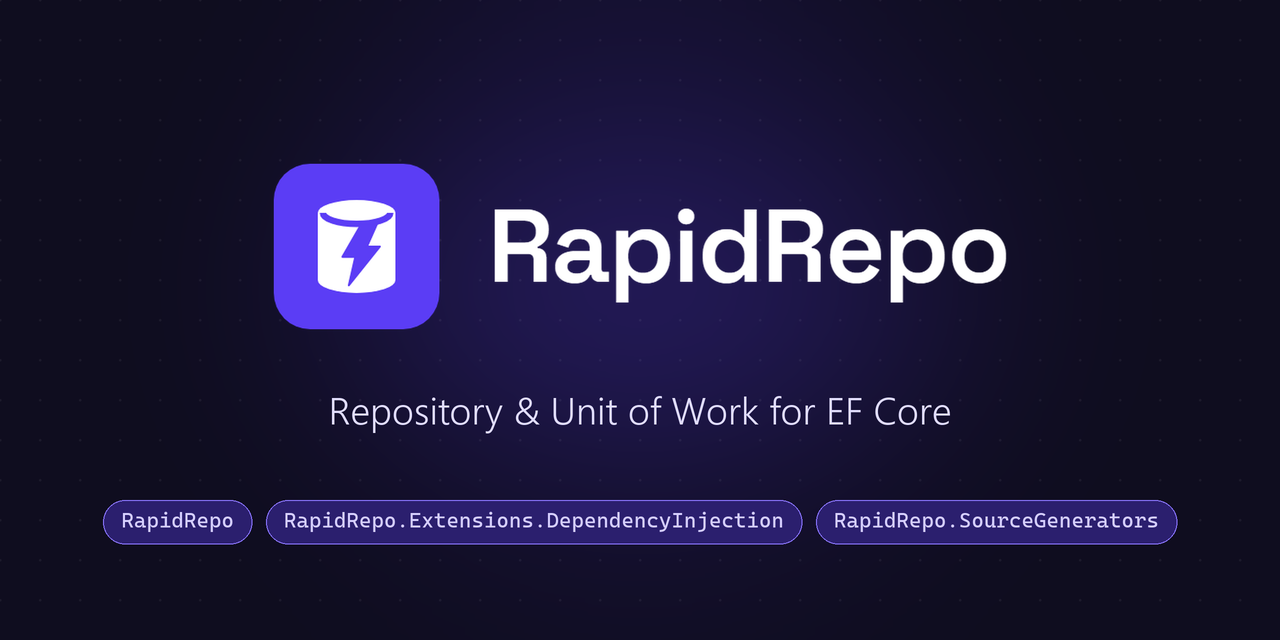
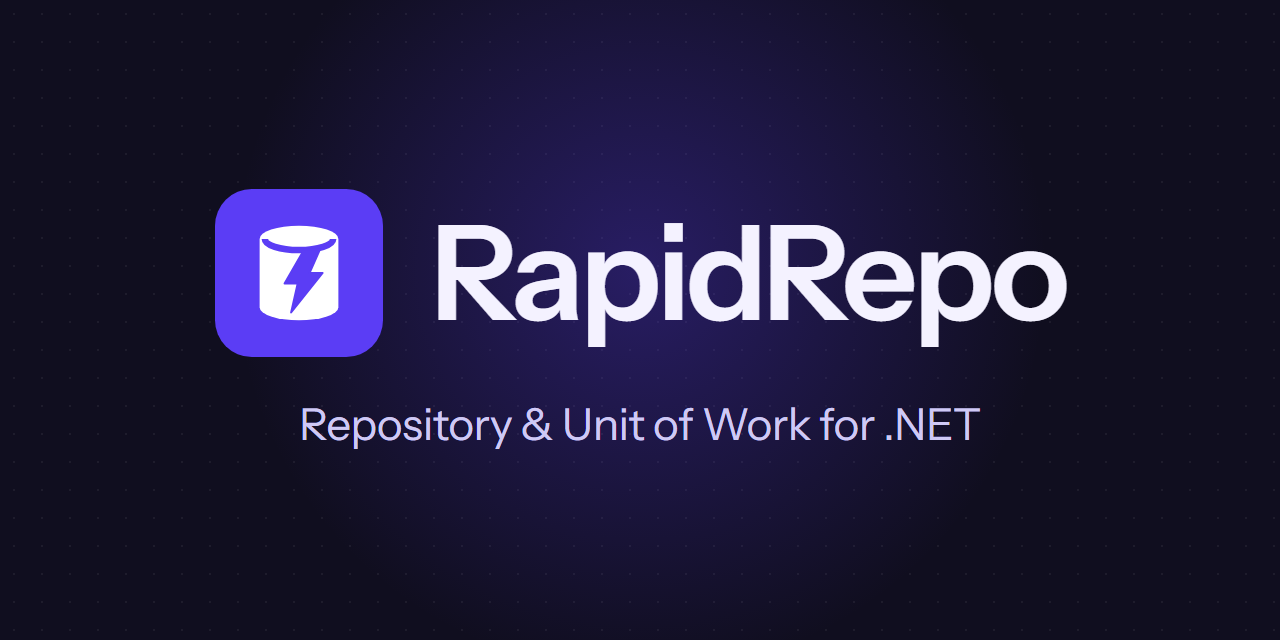
docs(assets): refresh brand assets with a provider-neutral tagline

Changed region(s): [[0.1562, 0.25, 0.8438, 0.5625], [0.0625, 0.7812, 0.9375, 0.875], [0.2188, 0.625, 0.7812, 0.6875]]

diff --git a/README.md b/README.md
@@ -1,7 +1,7 @@
 <h1>
   <picture>
     <source media="(prefers-color-scheme: dark)" srcset="assets/social-preview-dark.png">
-    <img alt="RapidRepo — Repository & Unit of Work for EF Core" src="assets/social-preview-light.png" width="100%">
+    <img alt="RapidRepo — Repository & Unit of Work for .NET" src="assets/social-preview-light.png" width="100%">
   </picture>
 </h1>
 
